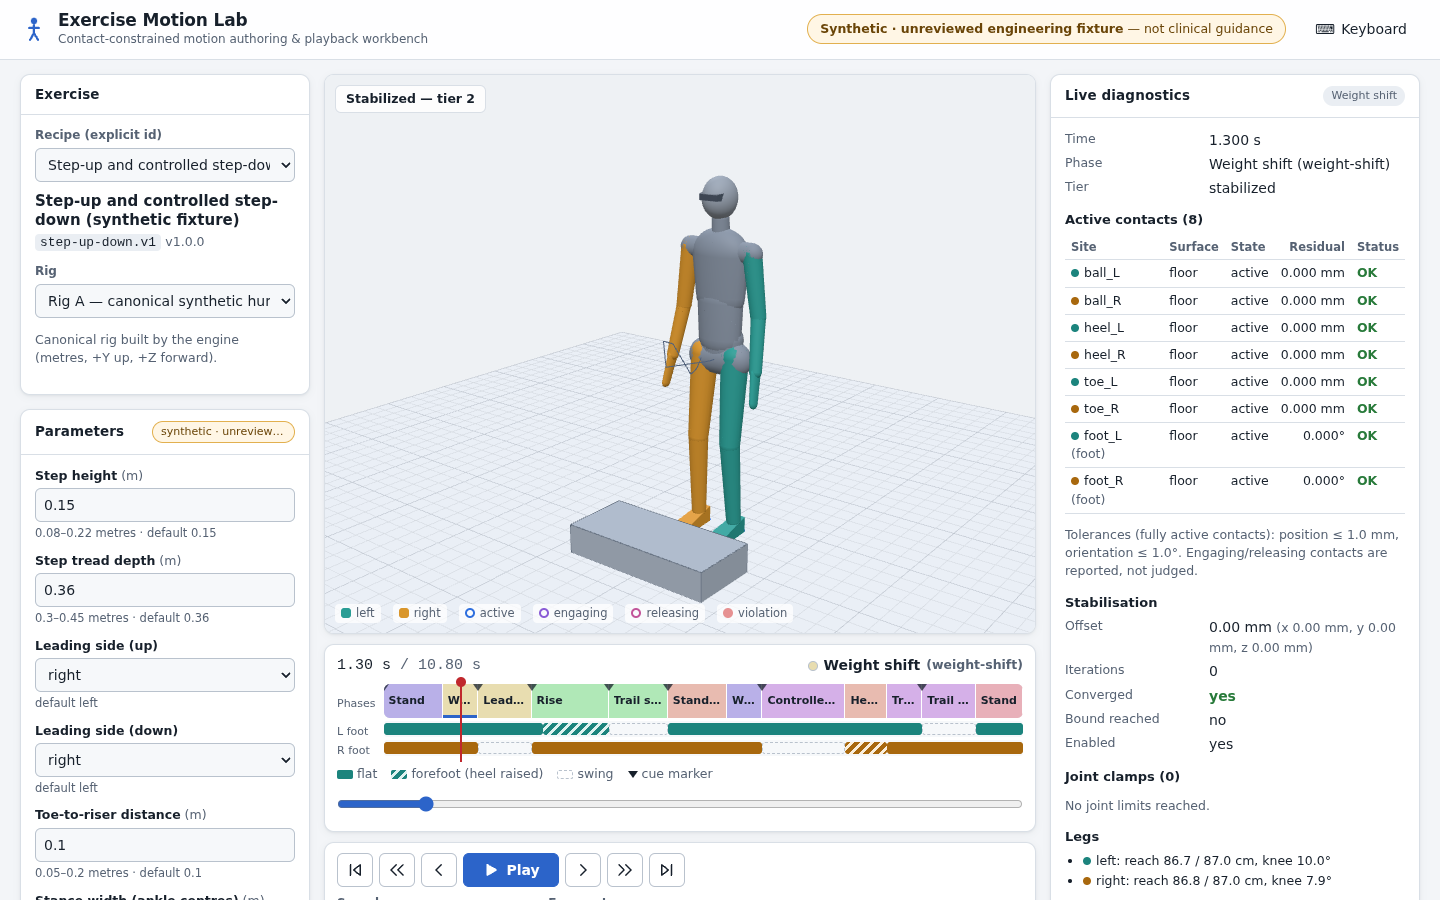
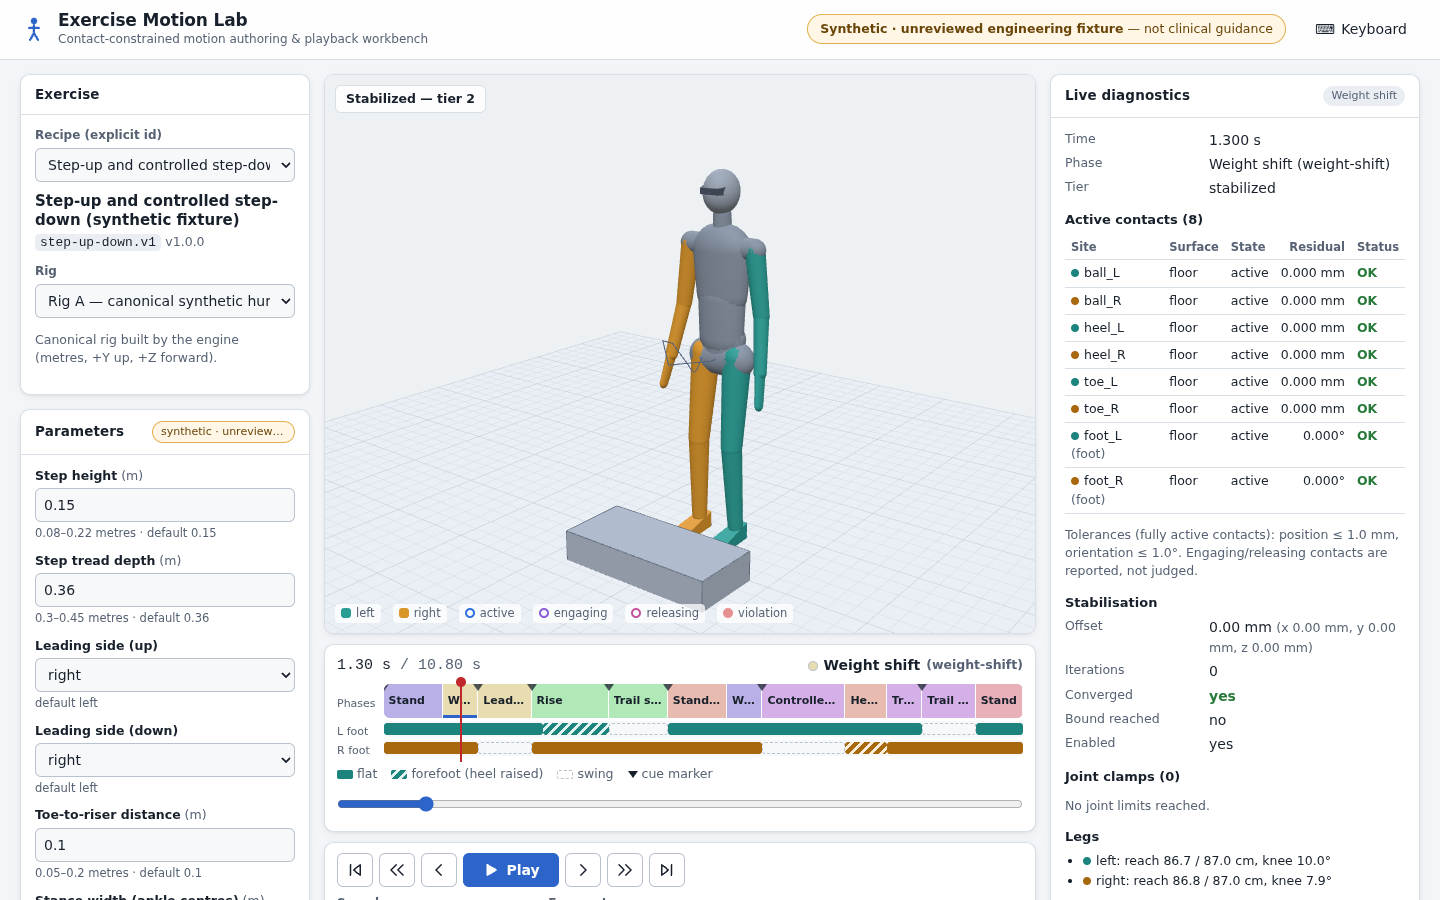
Sit-to-stand seated geometry from both legs (mirror-equivariant on asymmetric rigs)
Claude-Session: https://claude.ai/code/session_019fzaRc75yHgScRn81Weg1E

Changed region(s): [[0.375, 0.1867, 0.5312, 0.6844]]

diff --git a/stabilityos-exercise-motion-lab/tests/validation/mirror.test.ts b/stabilityos-exercise-motion-lab/tests/validation/mirror.test.ts
@@ -1,0 +1,190 @@
+/**
+ * Left/right mirror symmetry. The mirror of a pose across the sagittal (YZ) plane is derived here
+ * independently of the engine's mirrorPlan:
+ *   positions  p → M p            (x → −x), joint and site names swap _L ↔ _R
+ *   rotations  R → M R M          (M = diag(−1, 1, 1)), compared as matrices
+ *   DOF angles  L/R joints keep their values on the swapped joint (right-side Y/Z DOF axes are
+ *              already sign-mirrored); centre joints negate their Y- and Z-axis DOFs.
+ * Checks: (1) step-up with right leading sides is the exact mirror of left leading sides;
+ * (2) mirrorPlan(plan, fingerprint(mirrored rig)) on an asymmetric rig (left leg +10 mm), sampled
+ * on the mirrored rig, is the exact mirror of the original, and compiling the mirrored request on
+ * the mirrored rig gives the same result (compiler equivariance); (3) bilateral recipes on rig A
+ * are self-symmetric. Tolerance 1e-9 (m, matrix entries, rad).
+ */
+import { describe, expect, it } from 'vitest';
+import {
+  buildCanonicalRig,
+  compileRecipe,
+  createRigA,
+  listRecipes,
+  mirrorPlan,
+  mirrorProportions,
+  PROPORTIONS_A,
+  samplePose,
+  scaleProportions,
+  validatePlan,
+  type PoseSample,
+} from '../../src/core/engine.ts';
+import type { MotionPlan } from '../../src/core/contracts/plan.ts';
+import type { RigDefinition } from '../../src/core/contracts/rig.ts';
+import { rigFingerprint } from '../../src/core/rig/model.ts';
+import { maxAbsDiff, mirrorMat, qmat, swapSide, TIERS } from './support.ts';
+
+const TOL = 1e-9;
+const rigA = createRigA();
+const lldProps = scaleProportions(PROPORTIONS_A, { leftLegExtra: 0.01 });
+const rigLld = buildCanonicalRig('validation-lld', 'Rig A, left leg +10 mm', lldProps);
+const rigLldM = buildCanonicalRig('validation-lld-mirrored', 'Rig A, right leg +10 mm', mirrorProportions(lldProps));
+
+function mustCompile(id: string, params: Record<string, string | number>, rig: RigDefinition): MotionPlan {
+  const r = compileRecipe(id, params, rig);
+  if (!r.ok) throw new Error(`${id} ${JSON.stringify(params)} rejected on ${rig.id}: ${r.diagnostics.filter((d) => d.severity === 'error').map((d) => `${d.code}: ${d.message}`).join(' | ')}`);
+  return r.plan;
+}
+
+/** Worst deviation of `b` (on rigB) from the independently derived mirror image of `a` (on rigA), per quantity. */
+function mirrorError(a: PoseSample, rigAIn: RigDefinition, b: PoseSample, rigBIn: RigDefinition): { worst: number; where: string } {
+  let worst = 0;
+  let where = '';
+  const note = (v: number, w: string) => {
+    if (v > worst) {
+      worst = v;
+      where = w;
+    }
+  };
+  rigAIn.joints.forEach((jt, j) => {
+    const k = rigBIn.joints.findIndex((x) => x.name === swapSide(jt.name));
+    if (k < 0) throw new Error(`mirrored rig lacks ${swapSide(jt.name)}`);
+    const p = a.worldPos[j]!;
+    note(maxAbsDiff([-p[0], p[1], p[2]], b.worldPos[k]!), `${jt.name} position`);
+    note(maxAbsDiff(mirrorMat(qmat(a.worldRot[j]!)), qmat(b.worldRot[k]!)), `${jt.name} world rotation`);
+    note(maxAbsDiff(mirrorMat(qmat(a.local[j]!)), qmat(b.local[k]!)), `${jt.name} local rotation`);
+    const centre = swapSide(jt.name) === jt.name;
+    const expected = jt.dofs.map((d, i) => (centre && d.axis !== 0 ? -a.angles[j]![i]! : a.angles[j]![i]!));
+    note(maxAbsDiff(expected, b.angles[k]!), `${jt.name} DOF angles`);
+  });
+  rigAIn.sites.forEach((st, s) => {
+    const k = rigBIn.sites.findIndex((x) => x.name === swapSide(st.name));
+    const p = a.sitePos[s]!;
+    note(maxAbsDiff([-p[0], p[1], p[2]], b.sitePos[k]!), `site ${st.name}`);
+  });
+  const r = a.rootTranslation;
+  note(maxAbsDiff([-r[0], r[1], r[2]], b.rootTranslation), 'root translation');
+  const o = a.stabilization.offset;
+  note(maxAbsDiff([-o[0], o[1], o[2]], b.stabilization.offset), 'stabiliser offset');
+  return { worst, where };
+}
+
+function sampleTimes(plan: MotionPlan, n = 240): number[] {
+  const ts = new Set<number>();
+  for (let k = 0; k <= n; k++) ts.add((plan.duration * k) / n);
+  for (const p of plan.phases) ts.add(p.end);
+  for (const s of [...plan.feet.left, ...plan.feet.right]) ts.add(s.start);
+  return [...ts].sort((x, y) => x - y);
+}
+
+function assertMirrored(label: string, pa: MotionPlan, ra: RigDefinition, pb: MotionPlan, rb: RigDefinition): void {
+  expect(pb.duration).toBe(pa.duration);
+  let worst = 0;
+  let where = '';
+  for (const tier of TIERS)
+    for (const t of sampleTimes(pa)) {
+      const e = mirrorError(samplePose(pa, ra, t, tier), ra, samplePose(pb, rb, t, tier), rb);
+      if (e.worst > worst) {
+        worst = e.worst;
+        where = `${tier} t=${t.toFixed(4)} ${e.where}`;
+      }
+    }
+  console.info(`[mirror] ${label}: worst deviation ${worst.toExponential(2)} (${where || 'none'})`);
+  expect(worst, `${label}: worst at ${where}`).toBeLessThanOrEqual(TOL);
+}
+
+describe('mirror oracle sanity', () => {
+  it('M R M of a Y rotation is the inverse Y rotation; X rotations are unchanged', () => {
+    const ry = [0, Math.sin(0.2), 0, Math.cos(0.2)];
+    const ryInv = [0, -Math.sin(0.2), 0, Math.cos(0.2)];
+    const rx = [Math.sin(0.3), 0, 0, Math.cos(0.3)];
+    expect(maxAbsDiff(mirrorMat(qmat(ry)), qmat(ryInv))).toBeLessThan(1e-15);
+    expect(maxAbsDiff(mirrorMat(qmat(rx)), qmat(rx))).toBeLessThan(1e-15);
+  });
+  it('the comparison has teeth: an un-mirrored step-up differs from its mirror by centimetres', () => {
+    const p = mustCompile('step-up-down.v1', { upLeadSide: 'left', downLeadSide: 'left' }, rigA);
+    const e = mirrorError(samplePose(p, rigA, 2.0), rigA, samplePose(p, rigA, 2.0), rigA);
+    expect(e.worst).toBeGreaterThan(0.01);
+  });
+});
+
+describe('step-up: right leading sides are the exact mirror of left leading sides (rig A)', () => {
+  const pairs = [
+    [{ upLeadSide: 'left', downLeadSide: 'left' }, { upLeadSide: 'right', downLeadSide: 'right' }],
+    [{ upLeadSide: 'left', downLeadSide: 'right' }, { upLeadSide: 'right', downLeadSide: 'left' }],
+  ] as const;
+  for (const [l, r] of pairs) {
+    const name = `${l.upLeadSide}/${l.downLeadSide} ↔ ${r.upLeadSide}/${r.downLeadSide}`;
+    it(`${name}: whole-body pose (legs, pelvis, trunk, arms, sites), all tiers`, () => {
+      assertMirrored(`step-up ${name}`, mustCompile('step-up-down.v1', l, rigA), rigA, mustCompile('step-up-down.v1', r, rigA), rigA);
+    });
+    it(`${name}: foot-state schedules are mirror images (sides swapped, anchor x and yaw negated, same times)`, () => {
+      const a = mustCompile('step-up-down.v1', l, rigA);
+      const b = mustCompile('step-up-down.v1', r, rigA);
+      for (const [sa, sb] of [
+        ['left', 'right'],
+        ['right', 'left'],
+      ] as const) {
+        const fa = a.feet[sa];
+        const fb = b.feet[sb];
+        expect(fb.map((s) => [s.kind, s.start, s.end])).toEqual(fa.map((s) => [s.kind, s.start, s.end]));
+        fa.forEach((s, i) => {
+          const m = fb[i]!;
+          if (s.kind === 'swing' || m.kind === 'swing') return;
+          expect(m.surface).toBe(s.surface);
+          expect(Math.abs(m.anchor.x + s.anchor.x)).toBeLessThanOrEqual(1e-12);
+          expect(Math.abs(m.anchor.z - s.anchor.z)).toBeLessThanOrEqual(1e-12);
+          expect(Math.abs(m.anchor.yaw + s.anchor.yaw)).toBeLessThanOrEqual(1e-12);
+        });
+      }
+    });
+  }
+});
+
+describe('mirrorPlan on an asymmetric rig (left leg +10 mm) sampled on the mirrored rig', () => {
+  const fpM = rigFingerprint(rigLldM);
+  const cases: { name: string; id: string; params: Record<string, string>; mirroredParams: Record<string, string> }[] = [];
+  for (const recipe of listRecipes()) {
+    if (recipe.id === 'step-up-down.v1')
+      for (const up of ['left', 'right'])
+        for (const down of ['left', 'right'])
+          cases.push({
+            name: `${recipe.id} ${up}/${down}`,
+            id: recipe.id,
+            params: { upLeadSide: up, downLeadSide: down },
+            mirroredParams: { upLeadSide: up === 'left' ? 'right' : 'left', downLeadSide: down === 'left' ? 'right' : 'left' },
+          });
+    else cases.push({ name: recipe.id, id: recipe.id, params: {}, mirroredParams: {} });
+  }
+  for (const c of cases) {
+    it(`${c.name}: mirrorPlan validates on the mirrored rig and samples as the exact mirror`, () => {
+      const plan = mustCompile(c.id, c.params, rigLld);
+      const before = JSON.stringify(plan);
+      const mirrored = mirrorPlan(plan, fpM);
+      expect(JSON.stringify(plan), 'mirrorPlan must not mutate its input').toBe(before);
+      expect(validatePlan(mirrored, rigLldM).filter((d) => d.severity === 'error')).toEqual([]);
+      expect(mirrored.recipe.params).toEqual({ ...plan.recipe.params, ...c.mirroredParams });
+      assertMirrored(`mirrorPlan ${c.name} (lld → lld mirrored)`, plan, rigLld, mirrored, rigLldM);
+    });
+    it(`${c.name}: compiling the mirrored request on the mirrored rig equals the mirror (compiler equivariance)`, () => {
+      const plan = mustCompile(c.id, c.params, rigLld);
+      const direct = mustCompile(c.id, c.mirroredParams, rigLldM);
+      assertMirrored(`compile-mirrored ${c.name}`, plan, rigLld, direct, rigLldM);
+    });
+  }
+});
+
+describe('bilateral recipes are left/right self-symmetric on rig A', () => {
+  for (const recipe of listRecipes().filter((r) => r.id !== 'step-up-down.v1')) {
+    it(`${recipe.id}: pose equals its own mirror image at every sampled time, all tiers`, () => {
+      const plan = mustCompile(recipe.id, {}, rigA);
+      assertMirrored(`${recipe.id} self-symmetry`, plan, rigA, plan, rigA);
+    });
+  }
+});

diff --git a/stabilityos-exercise-motion-lab/tests/validation/boundaries.test.ts b/stabilityos-exercise-motion-lab/tests/validation/boundaries.test.ts
@@ -1,0 +1,182 @@
+/**
+ * No C0 jumps (and no C1 breaks above the declared velocity-jump tolerance) at authored
+ * transitions: every phase boundary, every foot-state boundary, every seat-interval boundary and
+ * blend-window edge, every heel-lift key and every body-track key of every recipe.
+ *  - sample at b − ε, b, b + ε (ε = 1e-7 s): joint and site world positions differ ≤ 1e-5 m,
+ *    local joint rotations ≤ 1e-5 rad;
+ *  - 2 kHz scan over b ± 25 ms: second differences / h of DOF angles ≤ jointVelocityJump (rad/s),
+ *    of pelvis and site positions ≤ linearVelocityJump (m/s).
+ * C0: all three tiers. 2 kHz scan: stabilized (default) and baseline always; analytic (tier 1) only
+ * where its own clip metrics claim it is within tolerance — on the step-up tier 1 saturates at
+ * full leg reach (reported as TARGET_UNREACHABLE; that is what tier 2 exists for), which is then
+ * asserted to be reported rather than silently scanned.
+ * Geometric checks of synthetic fixtures, not clinical validation.
+ */
+import { describe, expect, it } from 'vitest';
+import { analyzePlan, compileRecipe, createRigA, listRecipes, samplePose, TOLERANCES, type PoseSample, type SolverTier } from '../../src/core/engine.ts';
+import type { MotionPlan } from '../../src/core/contracts/plan.ts';
+import type { RigDefinition } from '../../src/core/contracts/rig.ts';
+import { loadRigB, qangle, TIERS, vdist } from './support.ts';
+
+const EPS = 1e-7;
+const SCAN_HZ = 2000;
+const SCAN_HALF_WINDOW = 0.025;
+
+const rigA = createRigA();
+const rigBInfo = await loadRigB();
+console.info(`[boundaries] ${rigBInfo.note}`);
+
+interface Case {
+  name: string;
+  plan: MotionPlan;
+  rig: RigDefinition;
+}
+
+const cases: Case[] = [];
+const rigs: { id: string; rig: RigDefinition }[] = [{ id: 'rig A', rig: rigA }];
+if (rigBInfo.rig) rigs.push({ id: 'rig B', rig: rigBInfo.rig.rig });
+for (const { id, rig } of rigs)
+  for (const recipe of listRecipes()) {
+    const variants: Record<string, string>[] =
+      recipe.id === 'step-up-down.v1'
+        ? [
+            { upLeadSide: 'left', downLeadSide: 'left' },
+            { upLeadSide: 'left', downLeadSide: 'right' },
+            { upLeadSide: 'right', downLeadSide: 'left' },
+            { upLeadSide: 'right', downLeadSide: 'right' },
+          ]
+        : [{}];
+    for (const v of variants) {
+      const r = compileRecipe(recipe.id, { ...recipe.defaults(), ...v }, rig);
+      if (!r.ok) throw new Error(`test setup: ${recipe.id} ${JSON.stringify(v)} did not compile on ${id}`);
+      cases.push({ name: `${recipe.id} ${Object.values(v).join('/')} on ${id}`, plan: r.plan, rig });
+    }
+  }
+
+type Kind = 'phase' | 'foot-state' | 'seat' | 'heel-lift key' | 'track key';
+
+/** All authored transition times, labelled. */
+function boundaries(plan: MotionPlan): Map<number, Set<Kind>> {
+  const m = new Map<number, Set<Kind>>();
+  const add = (t: number, k: Kind) => {
+    if (!(t >= 0 && t <= plan.duration)) return;
+    const s = m.get(t) ?? new Set<Kind>();
+    s.add(k);
+    m.set(t, s);
+  };
+  for (const p of plan.phases) {
+    add(p.start, 'phase');
+    add(p.end, 'phase');
+  }
+  for (const s of [...plan.feet.left, ...plan.feet.right]) {
+    add(s.start, 'foot-state');
+    add(s.end, 'foot-state');
+    if (s.kind === 'forefoot') for (const k of s.heelLift.keys) add(k.t, 'heel-lift key');
+  }
+  for (const iv of plan.seat?.intervals ?? []) {
+    for (const t of [iv.start, iv.end, iv.start - iv.blendIn / 2, iv.start + iv.blendIn / 2, iv.end - iv.blendOut / 2, iv.end + iv.blendOut / 2]) add(t, 'seat');
+  }
+  for (const tr of Object.values(plan.pelvis)) for (const k of tr.keys) add(k.t, 'track key');
+  for (const dofs of Object.values(plan.joints)) for (const tr of Object.values(dofs)) for (const k of tr.keys) add(k.t, 'track key');
+  return m;
+}
+
+function c0Jump(a: PoseSample, b: PoseSample): { pos: number; rot: number; where: string } {
+  let pos = 0;
+  let rot = 0;
+  let where = '';
+  for (let j = 0; j < a.worldPos.length; j++) {
+    const d = vdist(a.worldPos[j]!, b.worldPos[j]!);
+    const r = qangle(a.local[j]!, b.local[j]!);
+    if (d > pos) {
+      pos = d;
+      where = `joint #${j}`;
+    }
+    rot = Math.max(rot, r);
+  }
+  for (let s = 0; s < a.sitePos.length; s++) {
+    const d = vdist(a.sitePos[s]!, b.sitePos[s]!);
+    if (d > pos) {
+      pos = d;
+      where = `site #${s}`;
+    }
+  }
+  return { pos, rot, where };
+}
+
+function secondDiff(a: PoseSample, b: PoseSample, c: PoseSample, h: number): { joint: number; linear: number } {
+  let joint = 0;
+  for (let j = 0; j < a.angles.length; j++)
+    for (let k = 0; k < a.angles[j]!.length; k++) joint = Math.max(joint, Math.abs(c.angles[j]![k]! - 2 * b.angles[j]![k]! + a.angles[j]![k]!) / h);
+  const lin = (p: readonly number[], q: readonly number[], r: readonly number[]) => Math.hypot(r[0]! - 2 * q[0]! + p[0]!, r[1]! - 2 * q[1]! + p[1]!, r[2]! - 2 * q[2]! + p[2]!) / h;
+  let linear = lin(a.pelvisWorld, b.pelvisWorld, c.pelvisWorld);
+  for (let s = 0; s < a.sitePos.length; s++) linear = Math.max(linear, lin(a.sitePos[s]!, b.sitePos[s]!, c.sitePos[s]!));
+  return { joint, linear };
+}
+
+describe('C0 at authored transitions: sample b − 1e-7, b, b + 1e-7', () => {
+  for (const cs of cases) {
+    it(cs.name, () => {
+      const bs = boundaries(cs.plan);
+      expect(bs.size).toBeGreaterThan(cs.plan.phases.length);
+      const bad: string[] = [];
+      let worstPos = 0;
+      let worstRot = 0;
+      for (const [b, kinds] of bs)
+        for (const tier of TIERS) {
+          const [m, z, p] = [b - EPS, b, b + EPS].map((t) => samplePose(cs.plan, cs.rig, t, tier)) as [PoseSample, PoseSample, PoseSample];
+          for (const [label, x, y] of [['b−ε→b', m, z], ['b→b+ε', z, p]] as const) {
+            const j = c0Jump(x, y);
+            worstPos = Math.max(worstPos, j.pos);
+            worstRot = Math.max(worstRot, j.rot);
+            if (j.pos > 1e-5 || j.rot > 1e-5)
+              bad.push(`${tier} ${[...kinds].join('+')} boundary t=${b} (${label}): Δpos ${j.pos.toExponential(2)} m at ${j.where}, Δrot ${j.rot.toExponential(2)} rad`);
+          }
+        }
+      console.info(`[C0] ${cs.name}: ${bs.size} boundaries × 3 tiers, max Δpos ${worstPos.toExponential(2)} m, max Δrot ${worstRot.toExponential(2)} rad`);
+      expect(bad.slice(0, 8)).toEqual([]);
+    });
+  }
+});
+
+describe('2 kHz scan around every transition: no per-step jumps (second differences within the velocity-jump tolerances)', () => {
+  const h = 1 / SCAN_HZ;
+  const n = Math.round(SCAN_HALF_WINDOW * SCAN_HZ);
+  for (const cs of cases) {
+    it(cs.name, () => {
+      const bad: string[] = [];
+      let worstJ = 0;
+      let worstL = 0;
+      // only phase / foot-state / seat transitions (track keys are covered by the C0 test and the clip metrics)
+      const bs = [...boundaries(cs.plan)].filter(([, k]) => k.has('phase') || k.has('foot-state') || k.has('seat')).map(([b]) => b);
+      const tier1 = analyzePlan(cs.plan, cs.rig, 'analytic');
+      const tiers: SolverTier[] = tier1.withinTolerance ? ['baseline', 'analytic', 'stabilized'] : ['baseline', 'stabilized'];
+      if (!tier1.withinTolerance) {
+        // tier 1 is out of tolerance here: that must be explicit, never silent
+        expect(tier1.failures.length).toBeGreaterThan(0);
+        expect(tier1.unreachableSamples + tier1.nonConvergedSamples + Object.keys(tier1.diagnosticsByCode).length).toBeGreaterThan(0);
+        console.info(`[2 kHz] ${cs.name}: analytic tier excluded (reported out of tolerance: ${tier1.failures.join('; ')})`);
+      }
+      for (const b of bs)
+        for (const tier of tiers) {
+          const ts: number[] = [];
+          for (let k = -n; k <= n; k++) {
+            const t = b + k * h;
+            if (t >= 0 && t <= cs.plan.duration) ts.push(t);
+          }
+          const ss = ts.map((t) => samplePose(cs.plan, cs.rig, t, tier));
+          for (let k = 1; k + 1 < ss.length; k++) {
+            // non-uniform spacing only where the window was cut at 0 / duration: skip those triples
+            if (Math.abs(ts[k + 1]! - ts[k]! - h) > 1e-12 || Math.abs(ts[k]! - ts[k - 1]! - h) > 1e-12) continue;
+            const r = secondDiff(ss[k - 1]!, ss[k]!, ss[k + 1]!, h);
+            worstJ = Math.max(worstJ, r.joint);
+            worstL = Math.max(worstL, r.linear);
+            if (r.joint > TOLERANCES.jointVelocityJump || r.linear > TOLERANCES.linearVelocityJump)
+              bad.push(`${tier} near boundary ${b} at t=${ts[k]}: joint ${r.joint.toFixed(3)} rad/s, linear ${r.linear.toFixed(4)} m/s`);
+          }
+        }
+      console.info(`[2 kHz] ${cs.name}: ${bs.length} transitions × ${tiers.length} tiers, max joint jump ${worstJ.toFixed(4)} rad/s, max linear jump ${worstL.toFixed(5)} m/s`);
+      expect(bad.slice(0, 8)).toEqual([]);
+    });
+  }
+});

diff --git a/stabilityos-exercise-motion-lab/src/core/recipes/sitToStand.ts b/stabilityos-exercise-motion-lab/src/core/recipes/sitToStand.ts
@@ -62,7 +62,10 @@ function build(v: Values, rig: RigDefinition) {
     };
   const H = num(v, 'chairHeight');
   const p = rig.proportions;
-  const L = p.left.leg;
+  // Seated geometry from the mean of both legs, so the compiler is mirror-equivariant for
+  // asymmetric rigs (a right-long-leg subject gets the mirror image of a left-long-leg one).
+  const mean = (k: 'thigh' | 'shank' | 'ankleHeight') => (p.left.leg[k] + p.right.leg[k]) / 2;
+  const L = { thigh: mean('thigh'), shank: mean('shank'), ankleHeight: mean('ankleHeight') };
   const hipY = H + p.pelvis.seatDrop - p.pelvis.hipDrop;
   const kneeY = L.ankleHeight + L.shank;
   const drop = hipY - kneeY;
